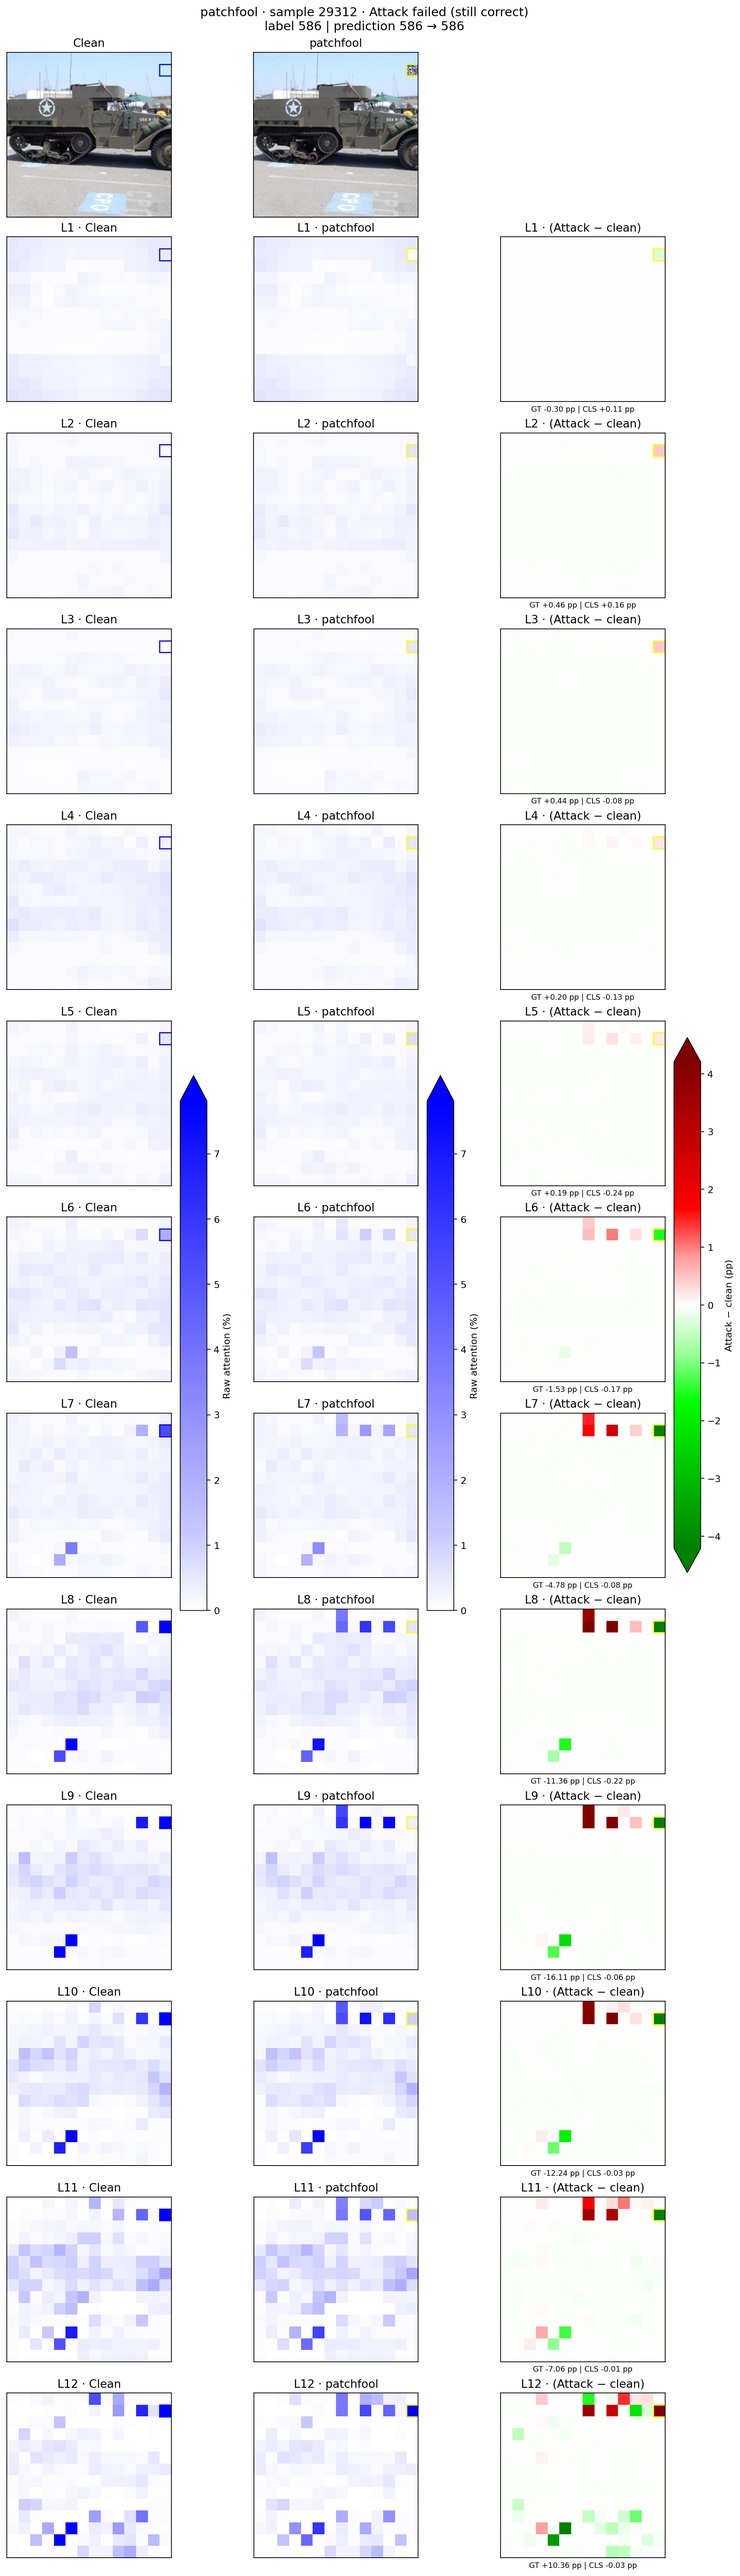
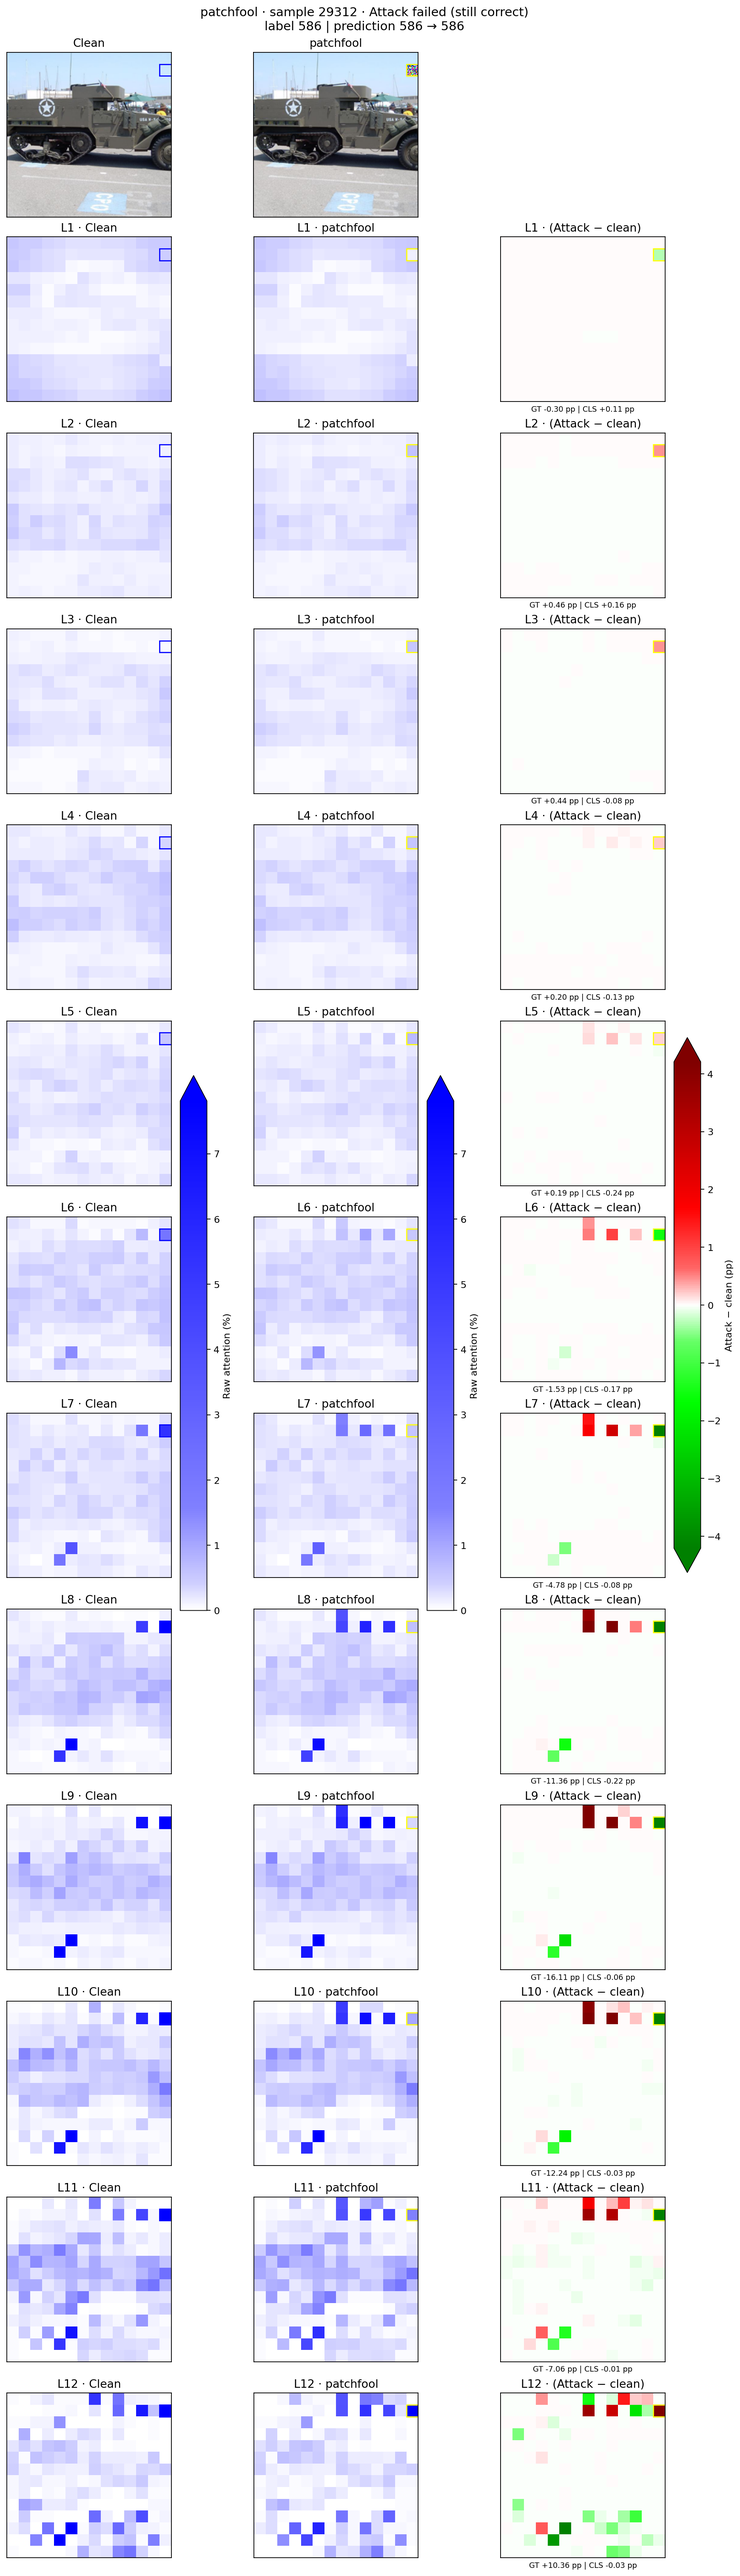
Color ramps darken faster off white (blue, green, red)

diff --git a/01_patch_attack_detector/experiments/characterization/02_compare_attention_success_failure.py b/01_patch_attack_detector/experiments/characterization/02_compare_attention_success_failure.py
@@ -30,12 +30,13 @@ OUTCOMES = {'attack_success': (1, 'Attack succeeded (misclassified)'),
 OUTCOME_COLORS = {'attack_success': '#d03b3b', 'attack_fail': '#0ca30c'}
 # 양 끝이 검정으로 가면 원본/공격/차이가 다 어두워져서 구분이 안 된다 -- 끝 색을 원색으로 둔다.
 # raw attention: 흰색 -> 순수 파랑. 차이: 감소=연초록->밝은 초록->진한 초록(#008000), 0=흰색, 증가(attention이 더 몰림)=순수 빨강.
-SEQUENTIAL = LinearSegmentedColormap.from_list('white_blue', [(0.0, '#ffffff'), (0.15, '#c8c8ff'), (1.0, '#0000ff')])
+SEQUENTIAL = LinearSegmentedColormap.from_list('white_blue', [(0.0, '#ffffff'), (0.05, '#d0d0ff'), (0.2, '#8080ff'), (1.0, '#0000ff')])
 # 0은 흰색. 흰색에서 바로 연한 초록/연한 빨강으로 건너뛴 뒤 원색으로 진해진다 -- 선형으로
 # 흰색->원색을 이으면 작은 변화가 흰색과 구분이 안 된다. 값 스케일은 선형(눈금 간격 균일)으로 두고
 # 작은 값을 보이게 하는 건 색 램프 쪽에서 한다.
 DIVERGING = LinearSegmentedColormap.from_list('green_white_red', [
-    (0.0, '#008000'), (0.3, '#00ff00'), (0.4, '#99ff99'), (0.5, '#ffffff'), (0.6, '#ff9999'), (0.7, '#ff0000'), (1.0, '#800000')])
+    (0.0, '#008000'), (0.3, '#00ff00'), (0.425, '#66ff66'), (0.475, '#ccffcc'), (0.5, '#ffffff'),
+    (0.525, '#ffcccc'), (0.575, '#ff6666'), (0.7, '#ff0000'), (1.0, '#800000')])
 
 METRICS = {'tv': 'Total variation', 'gt_delta': 'Attention change in GT region (pp)'}
 
